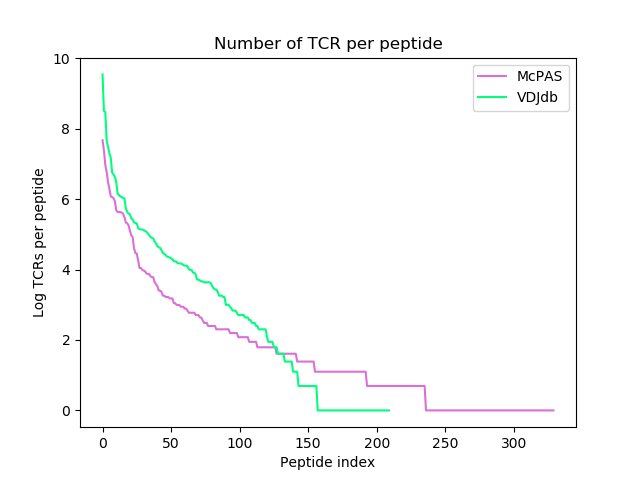
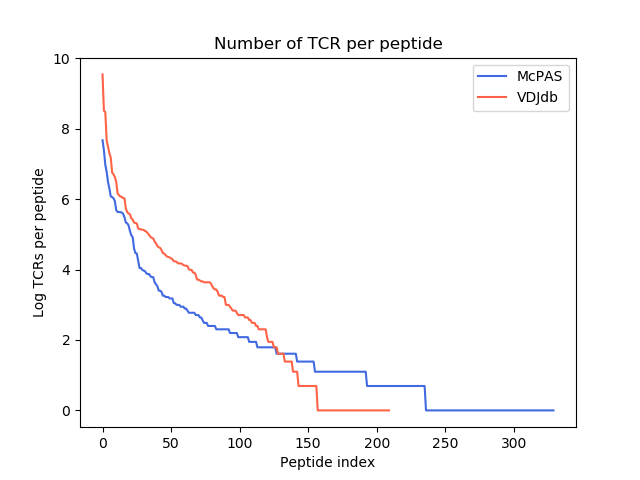
tumor results. plots

diff --git a/ergo_data_loader.py b/ergo_data_loader.py
@@ -14,6 +14,8 @@ def read_data(csv_file, file_key, _protein=False, _hla=False):
             reader = csv.reader(file)
         elif file_key == 'vdjdb':
             reader = csv.reader(file, delimiter='\t')
+        elif file_key == 'tumor':
+            reader = csv.reader(file, delimiter='\t')
         tcrs = set()
         peps = set()
         all_pairs = []
@@ -44,6 +46,8 @@ def read_data(csv_file, file_key, _protein=False, _hla=False):
                 tcr, pep = line[2], line[9]
                 if line[1] != 'TRB':
                     continue
+            elif file_key == 'tumor':
+                tcr, pep = line
             # Proper tcr and peptides
             if any(att == 'NA' or att == "" for att in [tcr, pep]):
                 continue
@@ -56,7 +60,7 @@ def read_data(csv_file, file_key, _protein=False, _hla=False):
             if _hla:
                 pep_data.append(hla)
             peps.add(tuple(pep_data))
-            all_pairs.append((tcr, pep_data))
+            all_pairs.append((tcr, tuple(pep_data)))
     train_pairs, test_pairs = train_test_split(all_pairs)
     return all_pairs, train_pairs, test_pairs
 
@@ -194,30 +198,44 @@ def get_examples(pairs_file, key, sampling, _protein=False, _hla=False):
 
 
 def load_data(pairs_file, key, sampling, _protein=False, _hla=False):
-    if key in ['mcpas', 'vdjdb']:
+    if key in ['mcpas', 'vdjdb', 'tumor']:
         train_pos, train_neg, test_pos, test_neg = get_examples(pairs_file, key, sampling, _protein=_protein, _hla=_hla)
-        train = train_pos + train_neg
-        random.shuffle(train)
-        test = test_pos + test_neg
-        random.shuffle(test)
-        return train, test
     elif key == 'united':
-        mcpas_train_pos, mcpas_train_neg, mcpas_test_pos, mcpas_test_neg = \
-            get_examples(pairs_file['mcpas'], 'mcpas', sampling, _protein=_protein, _hla=_hla)
-        vdjdb_train_pos, vdjdb_train_neg, vdjdb_test_pos, vdjdb_test_neg = \
-            get_examples(pairs_file['vdjdb'], 'vdjdb', sampling, _protein=_protein, _hla=_hla)
-        train = mcpas_train_pos + mcpas_train_neg + vdjdb_train_pos + vdjdb_train_neg
-        random.shuffle(train)
-        test = mcpas_test_pos + mcpas_test_neg + vdjdb_test_pos + vdjdb_test_neg
-        random.shuffle(test)
-        return train, test
+        mcpas_all_pairs, _, _ = read_data(pairs_file['mcpas'], 'mcpas', _protein=_protein, _hla=_hla)
+        vdjdb_all_pairs, _, _ = read_data(pairs_file['vdjdb'], 'vdjdb', _protein=_protein, _hla=_hla)
+        print(mcpas_all_pairs + vdjdb_all_pairs)
+        all_pairs = list(set(mcpas_all_pairs + vdjdb_all_pairs))
+        # split union to train/test
+        train_pairs, test_pairs = train_test_split(all_pairs)
+        train_pos = positive_examples(train_pairs)
+        test_pos = positive_examples(test_pairs)
+        if sampling == 'specific':
+            train_neg = negative_examples(train_pairs, all_pairs, 5 * len(train_pos), _protein=_protein)
+            test_neg = negative_examples(test_pairs, all_pairs, 5 * len(test_pos), _protein=_protein)
+    train = train_pos + train_neg
+    random.shuffle(train)
+    test = test_pos + test_neg
+    random.shuffle(test)
+    return train, test
+    # This - won't work, because mcpas/vdjdb are NOT distinct
+    # mcpas_train_pos, mcpas_train_neg, mcpas_test_pos, mcpas_test_neg = \
+    #     get_examples(pairs_file['mcpas'], 'mcpas', sampling, _protein=_protein, _hla=_hla)
+    # vdjdb_train_pos, vdjdb_train_neg, vdjdb_test_pos, vdjdb_test_neg = \
+    #     get_examples(pairs_file['vdjdb'], 'vdjdb', sampling, _protein=_protein, _hla=_hla)
+    # train = mcpas_train_pos + mcpas_train_neg + vdjdb_train_pos + vdjdb_train_neg
+    # random.shuffle(train)
+    # test = mcpas_test_pos + mcpas_test_neg + vdjdb_test_pos + vdjdb_test_neg
+    # random.shuffle(test)
 
 
-def check(file, key, sampling, _protein, _hla):
-    train, test = load_data(file, key, sampling, _protein, _hla)
+def check(file, key, sampling):
+    train, test = load_data(file, key, sampling)
     print(train)
     print(test)
     print(len(train))
     print(len(test))
 
-# check()
+
+# check('tumor/extended_cancer_pairs', 'tumor', 'specific')
+# datafile = {'mcpas': r'data/McPAS-TCR.csv', 'vdjdb': r'data/VDJDB_complete.tsv'}
+# check(datafile, 'united', 'specific')

diff --git a/plots.py b/plots.py
@@ -27,7 +27,7 @@ def spb_auc(args, peps):
                 print('None')
             except IndexError:
                 print('None')
-    # print(aucs)
+    print(aucs)
     aucs = ma.array(aucs, mask=aucs == 0)
     # print(aucs)
     print(ma.mean(aucs, axis=1))
@@ -201,7 +201,7 @@ def mis_pos():
     auc_means = auc_mean.reshape((2 * 2, -1))
     auc_stds = auc_std.reshape((2 * 2, -1))
     labels = ['MsPAS, AE model', 'VDJdb, AE model', 'MsPAS, LSTM model', 'VDJdb, LSTM model']
-    colors = ['dodgerblue', 'springgreen', 'dodgerblue', 'springgreen']
+    colors = ['royalblue', 'tomato', 'royalblue', 'tomato']
     styles = ['-', '-', '--', '--']
     for auc_mean, auc_std, label, color, style in zip(auc_means, auc_stds, labels, colors, styles):
         plt.errorbar(range(1, len(auc_mean) + 1), auc_mean, yerr=auc_std, label=label,
@@ -239,7 +239,7 @@ def sub_auc():
     auc_means = auc_mean.reshape((2 * 2, -1))
     auc_stds = auc_std.reshape((2 * 2, -1))
     labels = ['MsPAS, AE model', 'VDJdb, AE model', 'MsPAS, LSTM model', 'VDJdb, LSTM model']
-    colors = ['dodgerblue', 'springgreen', 'dodgerblue', 'springgreen']
+    colors = ['royalblue', 'tomato', 'royalblue', 'tomato']
     styles = ['-', '-', '--', '--']
     for auc_mean, auc_std, label, color, style in zip(auc_means, auc_stds, labels, colors, styles):
         plt.errorbar(range(1, len(auc_mean) + 1), auc_mean, yerr=auc_std, label=label,
@@ -269,9 +269,9 @@ def tcr_per_pep_dist():
             pep_tcr2[pep[0]] = 1
     tcr_nums2 = sorted([pep_tcr2[pep] for pep in pep_tcr2], reverse=True)
     plt.plot(range(len(tcr_nums1)), np.log(np.array(tcr_nums1)),
-           color='orchid', label='McPAS')
+           color='royalblue', label='McPAS')
     plt.plot(range(len(tcr_nums2)), np.log(np.array(tcr_nums2)),
-           color='springgreen', label='VDJdb')
+           color='tomato', label='VDJdb')
     plt.ylabel('Log TCRs per peptide')
     plt.xlabel('Peptide index')
     plt.title('Number of TCR per peptide')

diff --git a/ERGO.py b/ERGO.py
@@ -69,6 +69,8 @@ def main(args):
     params['lr'] = 1e-4
     params['wd'] = 0
     params['epochs'] = 100
+    if args.dataset == 'tumor':
+        params['epochs'] = 25
     params['batch_size'] = 50
     params['lstm_dim'] = 500
     params['emb_dim'] = 10
@@ -92,6 +94,8 @@ def main(args):
         datafile = r'data/VDJDB_complete.tsv'
     if args.dataset == 'united':
         datafile = {'mcpas': r'data/McPAS-TCR.csv', 'vdjdb': r'data/VDJDB_complete.tsv'}
+    if args.dataset == 'tumor':
+        datafile = r'tumor/extended_cancer_pairs'
     train, test = ergo_data_loader.load_data(datafile, args.dataset, args.sampling,
                                              _protein=args.protein, _hla=args.hla)
     # Save train

diff --git a/evaluation_methods.py b/evaluation_methods.py
@@ -120,6 +120,9 @@ def extract_new_tcrs_and_peps(train_data, test_data):
     new_test_peps = set(test_peps).difference(set(train_peps))
     # print(len(new_test_tcrs), len(set(test_tcrs)))
     # print(len(new_test_peps), len(set(test_peps)), len(set(train_peps)))
+    print('test data', len(test_data))
+    print('new test tcrs', len(new_test_tcrs))
+    print('new test peps', len(new_test_peps))
     return new_test_tcrs, new_test_peps
 
 

diff --git a/ae_utils.py b/ae_utils.py
@@ -37,8 +37,11 @@ def pad_tcr(tcr, amino_to_ix, max_length):
     padding = torch.zeros(max_length, 20 + 1)
     tcr = tcr + 'X'
     for i in range(len(tcr)):
-        amino = tcr[i]
-        padding[i][amino_to_ix[amino]] = 1
+        try:
+            amino = tcr[i]
+            padding[i][amino_to_ix[amino]] = 1
+        except IndexError:
+            return padding
     return padding
 
 
